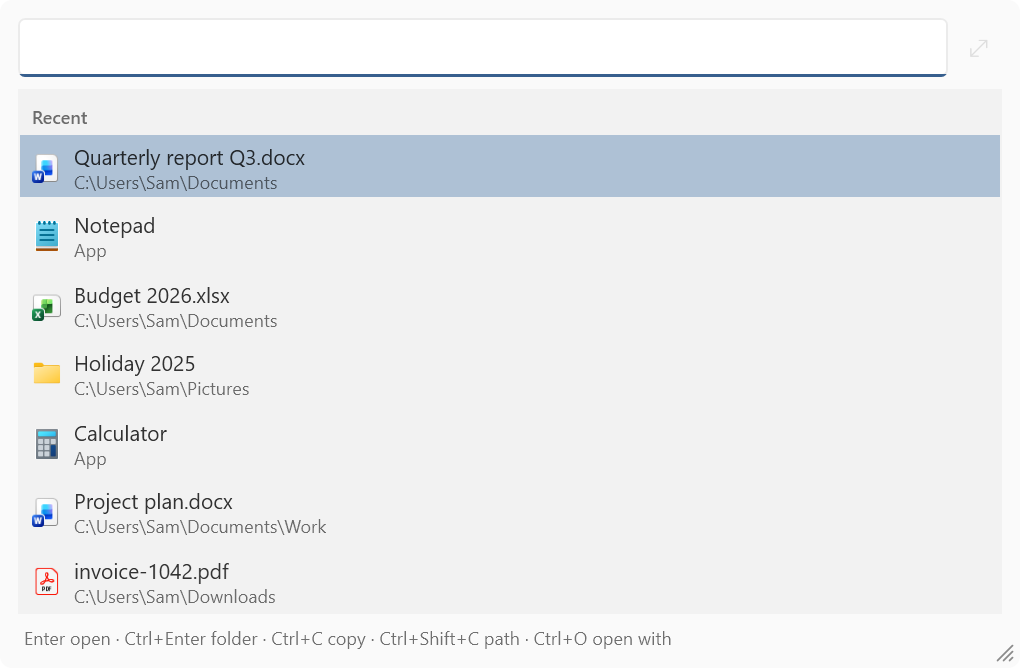
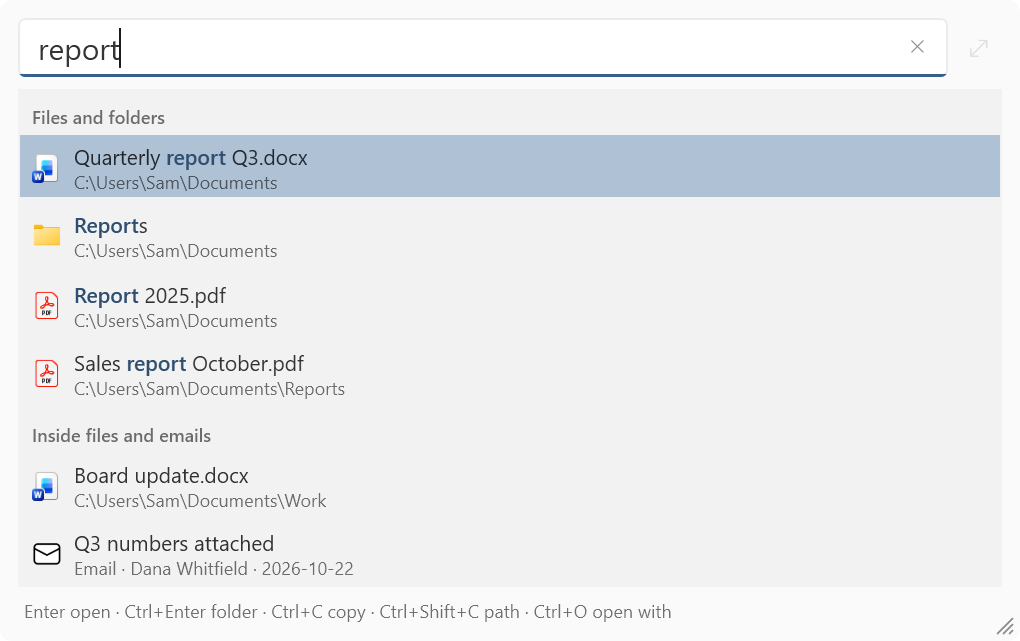
feat(hub): Findee screenshot shows a search with results

diff --git a/index.html b/index.html
@@ -709,7 +709,7 @@
       <figure data-scrub class="shot window wide">
         <picture class="pic">
           <source srcset="assets/findee-screenshot-dark.webp" media="(prefers-color-scheme: dark)">
-          <img src="assets/findee-screenshot.webp" alt="The Findee search box with an empty search, showing the recent files, folders, and apps, with Quarterly report Q3.docx selected and the key hints for open, open folder, and copy path along the bottom" loading="lazy" width="1020" height="668">
+          <img src="assets/findee-screenshot.webp" alt="The Findee search box with report typed in it: the matching files and folders, with Quarterly report Q3.docx selected, then a file and an email that contain the word, and the key hints along the bottom" loading="lazy" width="1020" height="641">
         </picture>
       </figure>
     </section>
